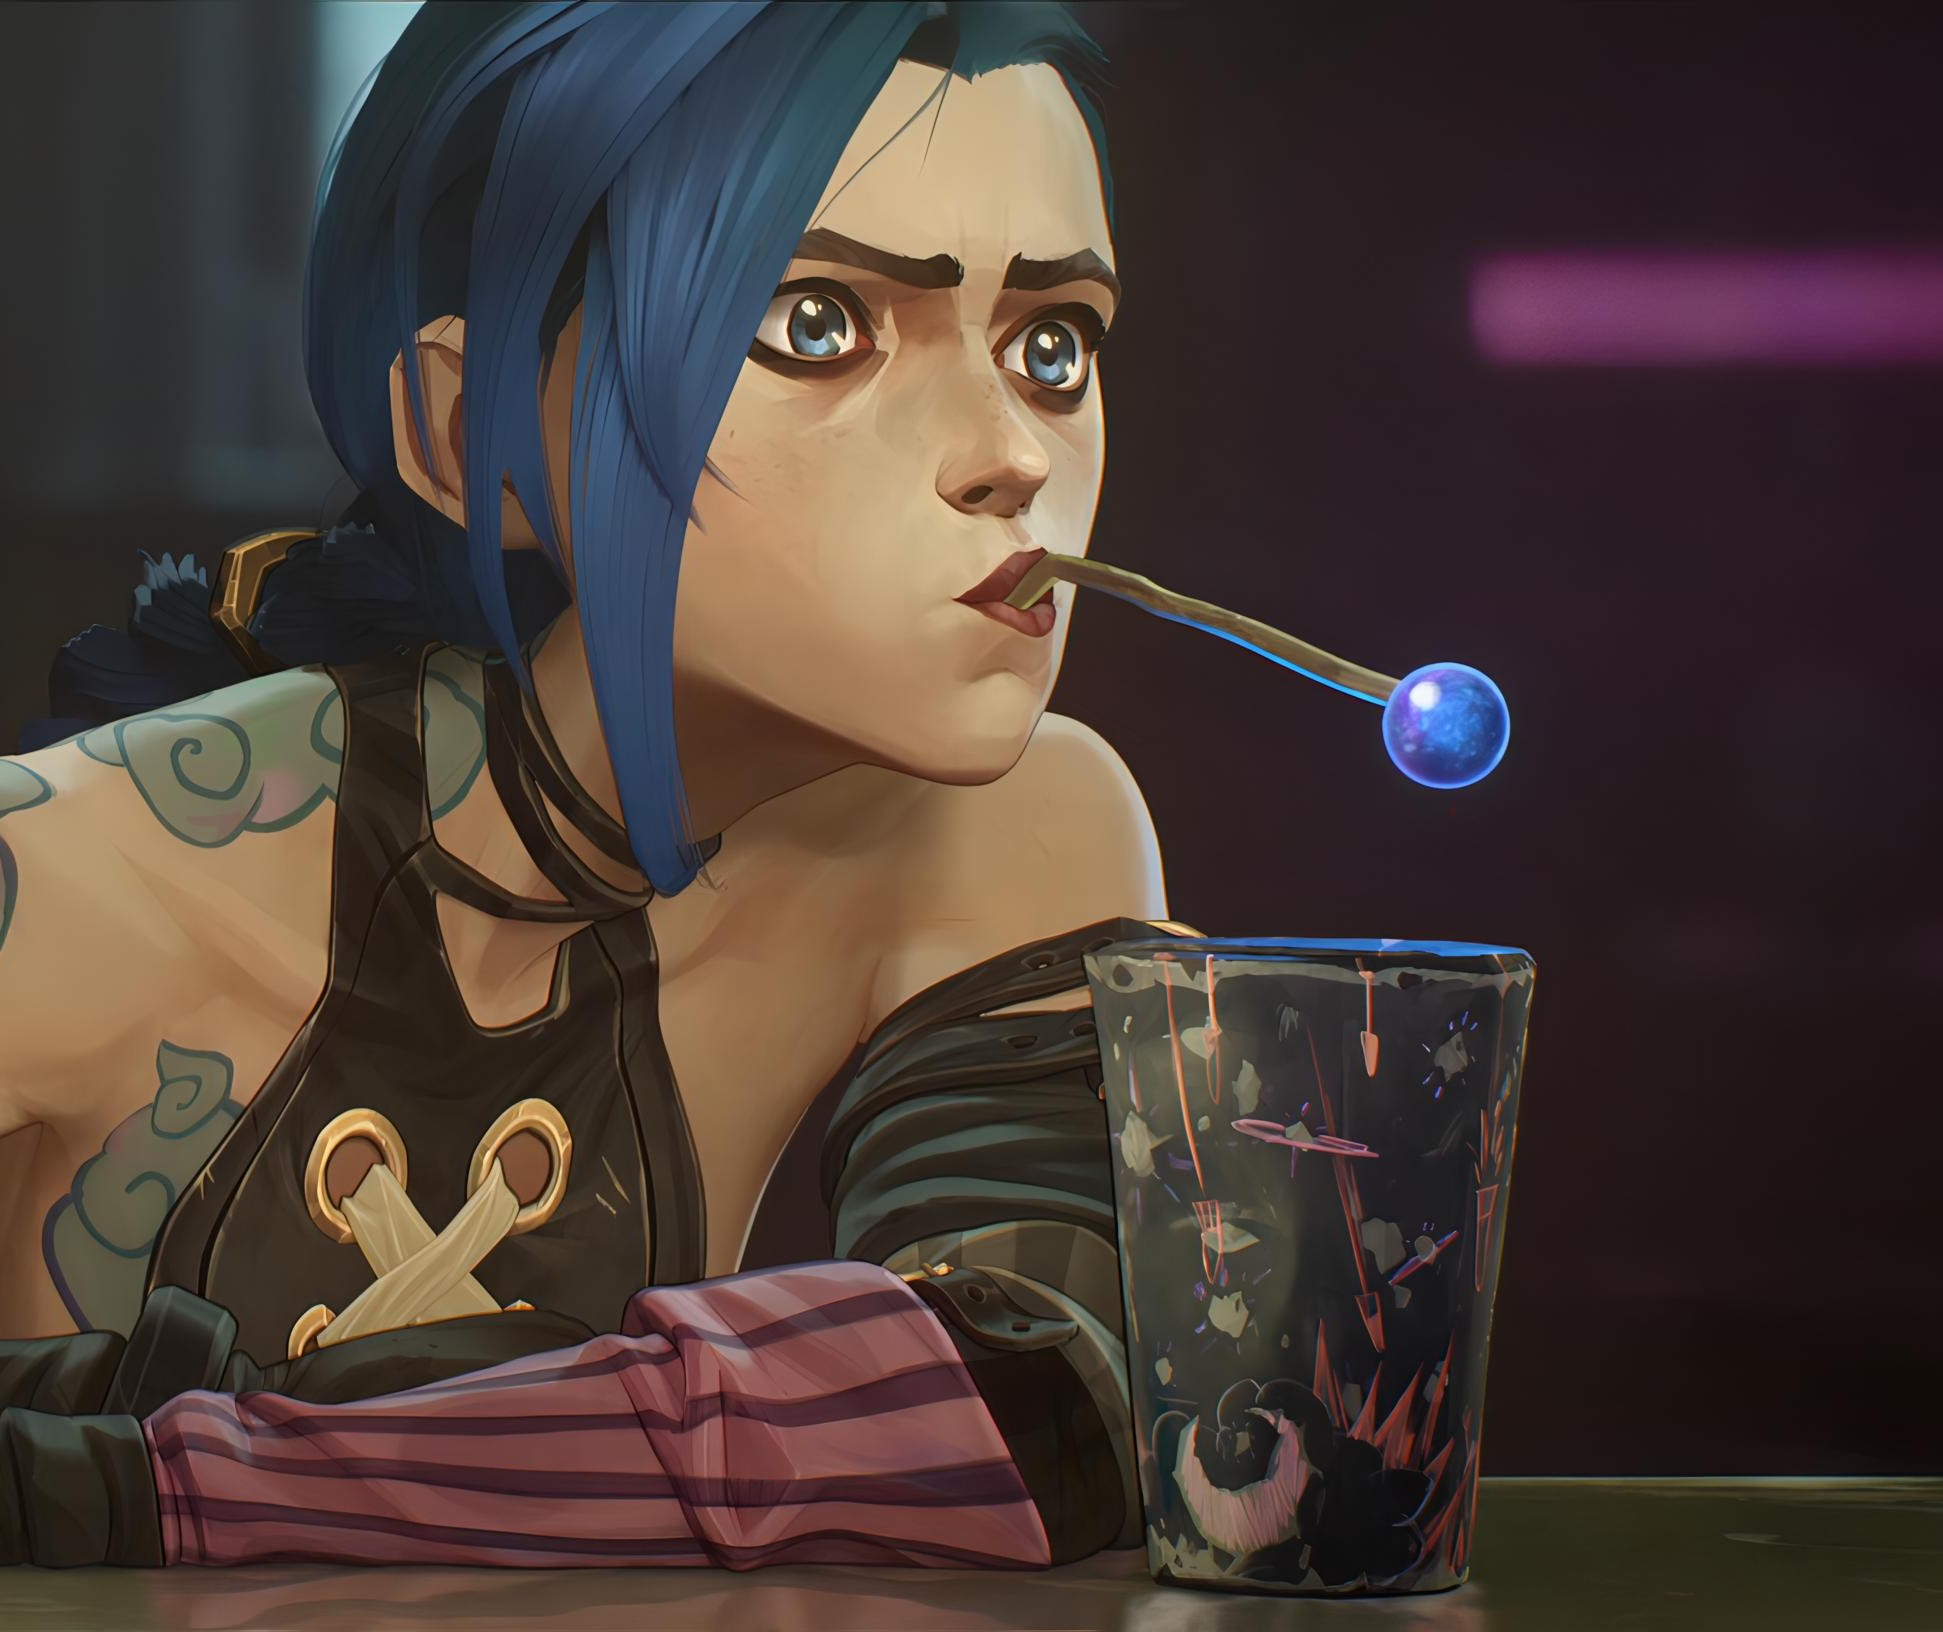
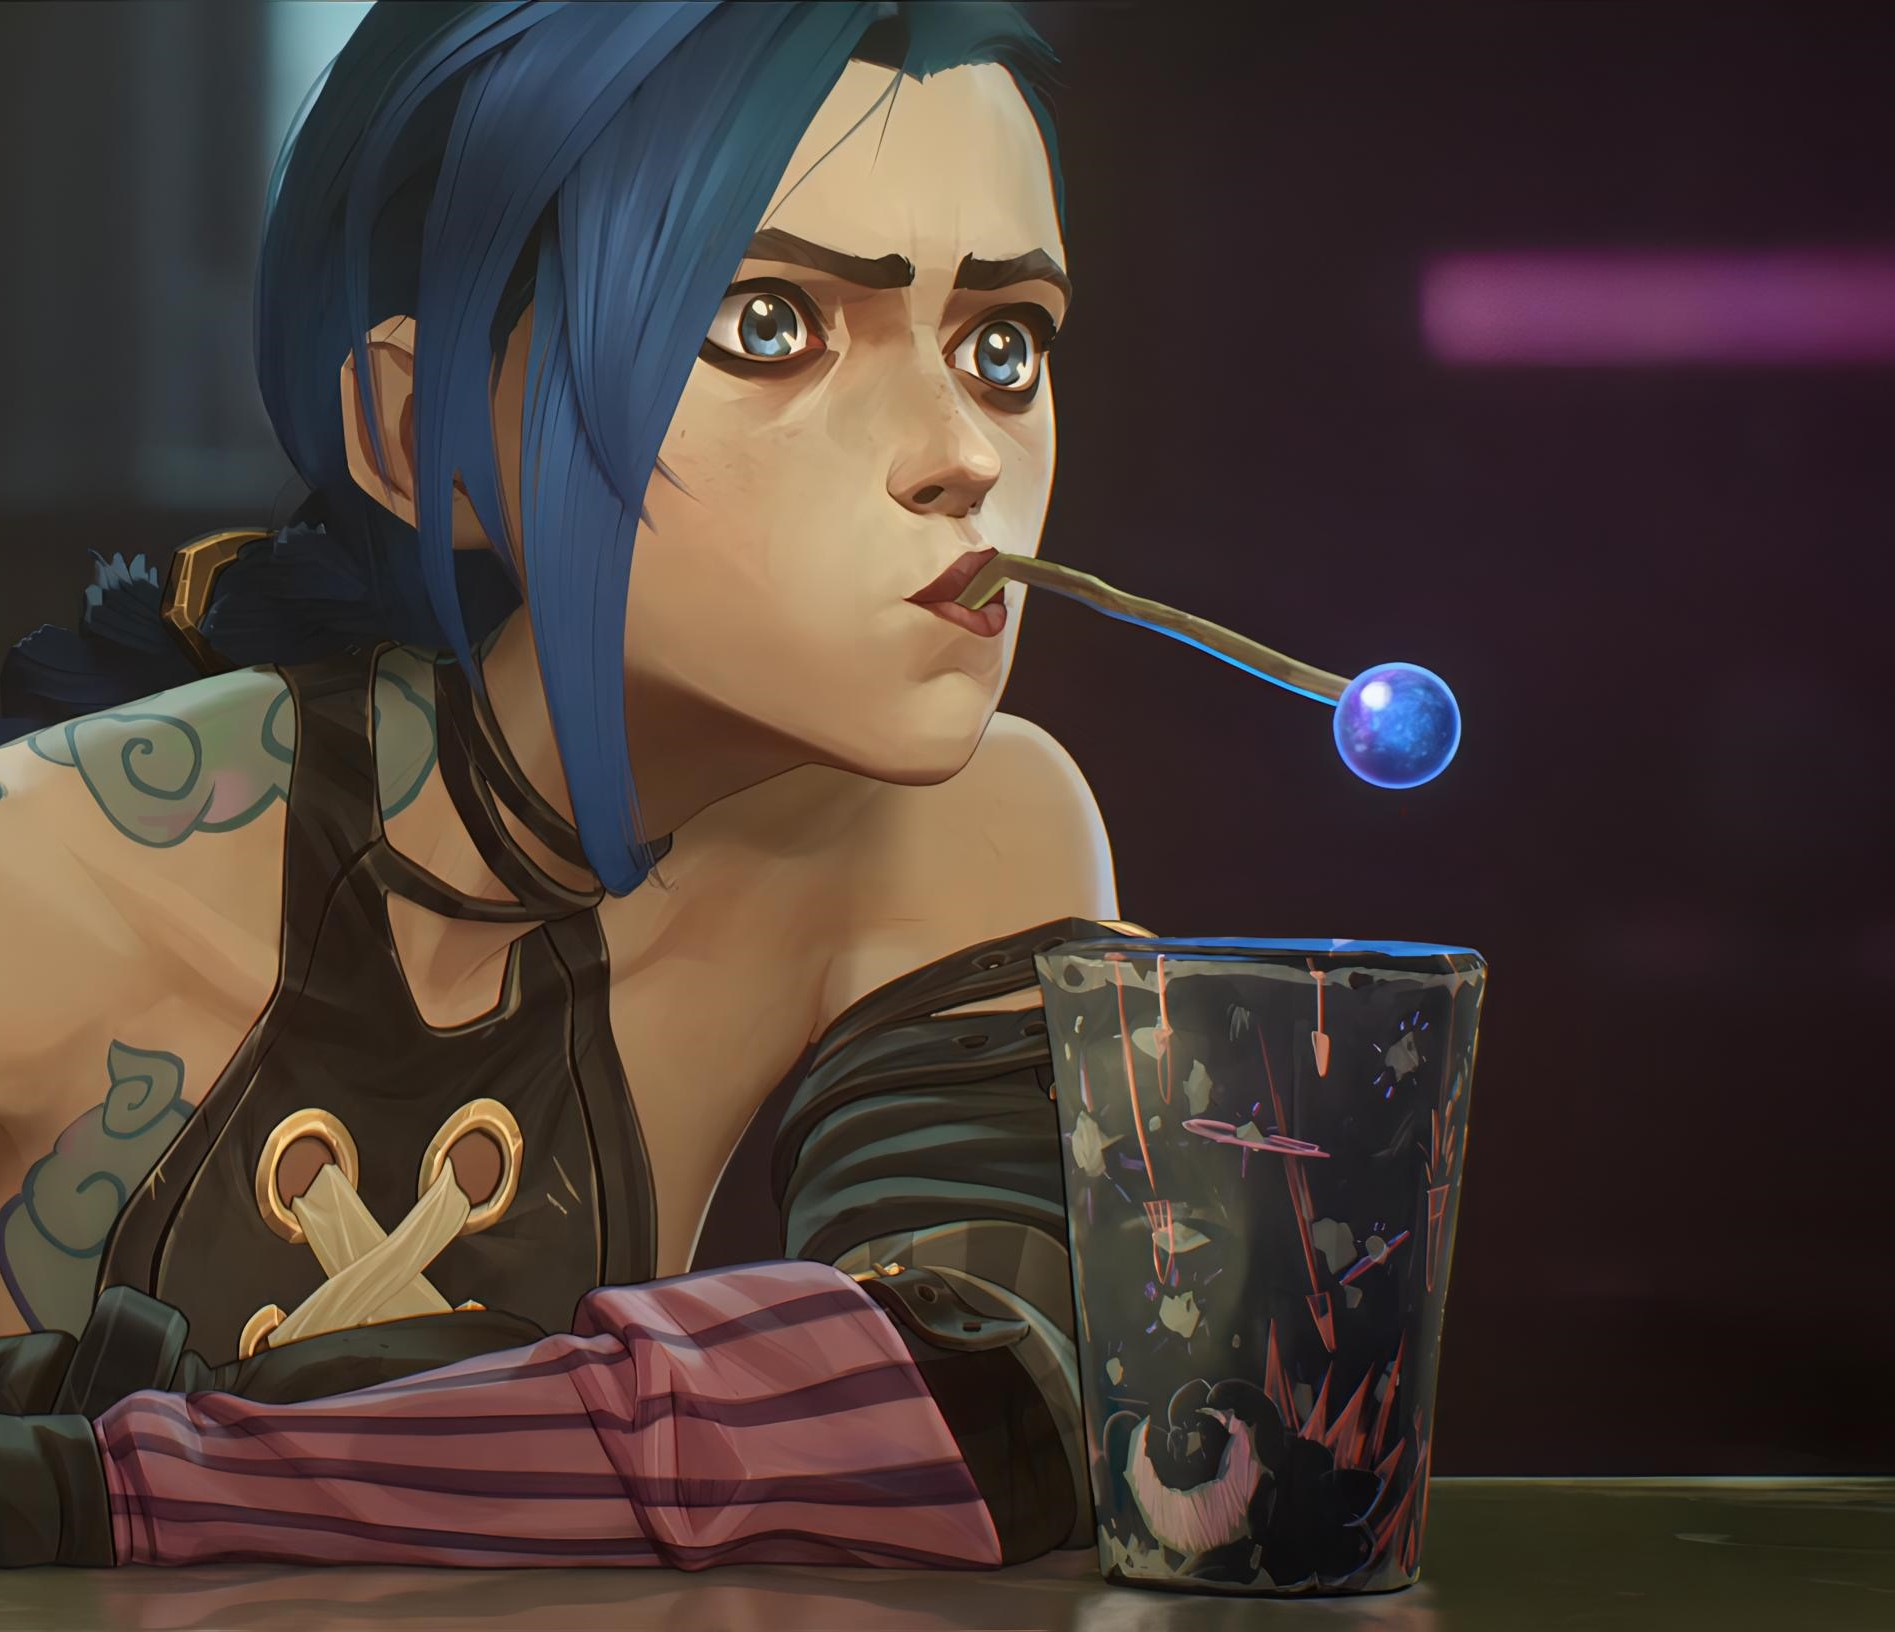
Responsividade feita
Background destaque, responsivo!

diff --git a/site-lor/style.css b/site-lor/style.css
@@ -200,7 +200,7 @@ RESPONSIVIDADE
 @media (max-width: 1000px) {
     
     html {
-        font-size: 52%;
+        font-size: 51%;
     }
     
     #lista-dos-links {
@@ -228,18 +228,21 @@ RESPONSIVIDADE
     .links {
         font-size: 2.8rem;
     }
-
 }
 
-@media (max-width: 785px) {
+@media (max-width: 913px) {
     .container-destaque {
-        background-position: center right;
+        background-image: url('imagens/imagem-destaque-pequena.jpeg');
+        background-position: left top;
     }
-}
 
-@media (max-width: 646px) {
-    #container-card-nivel1 {
-        background-position: center top;
+
+    #caixa-de-informacao1 {
+        padding: 10px;
+    }
+
+    #caixa-de-informacao1 h1 {
+        font-size: 3.3rem;
     }
 }
 
@@ -255,16 +258,15 @@ RESPONSIVIDADE
     }
 }
 
-@media (max-width: 600px) {
+@media (max-width: 534px) {
     .container-destaque {
-        background-position: center center;
-        background-image: url("imagens/imagem-destaque-pequena.jpeg");
+        background-position: top center;
     }
 }
 
 @media (max-width: 511px) {
     html {
-        font-size: 42%;
+        font-size: 43%;
     }
 
     #btn1,
@@ -272,19 +274,12 @@ RESPONSIVIDADE
         display: none;
     }
 
-    #caixa-de-informacao1 h1 {
-        font-size: 3.3rem;
-    }
 }
 
 @media (max-width: 323px) {
     
-    .container-destaque {
-        height: 100vh;
-    }
-    
     #caixa-de-informacao1 {
         padding: 10px;
-        height: 250px;
+        height: 255px;
     }
 }
